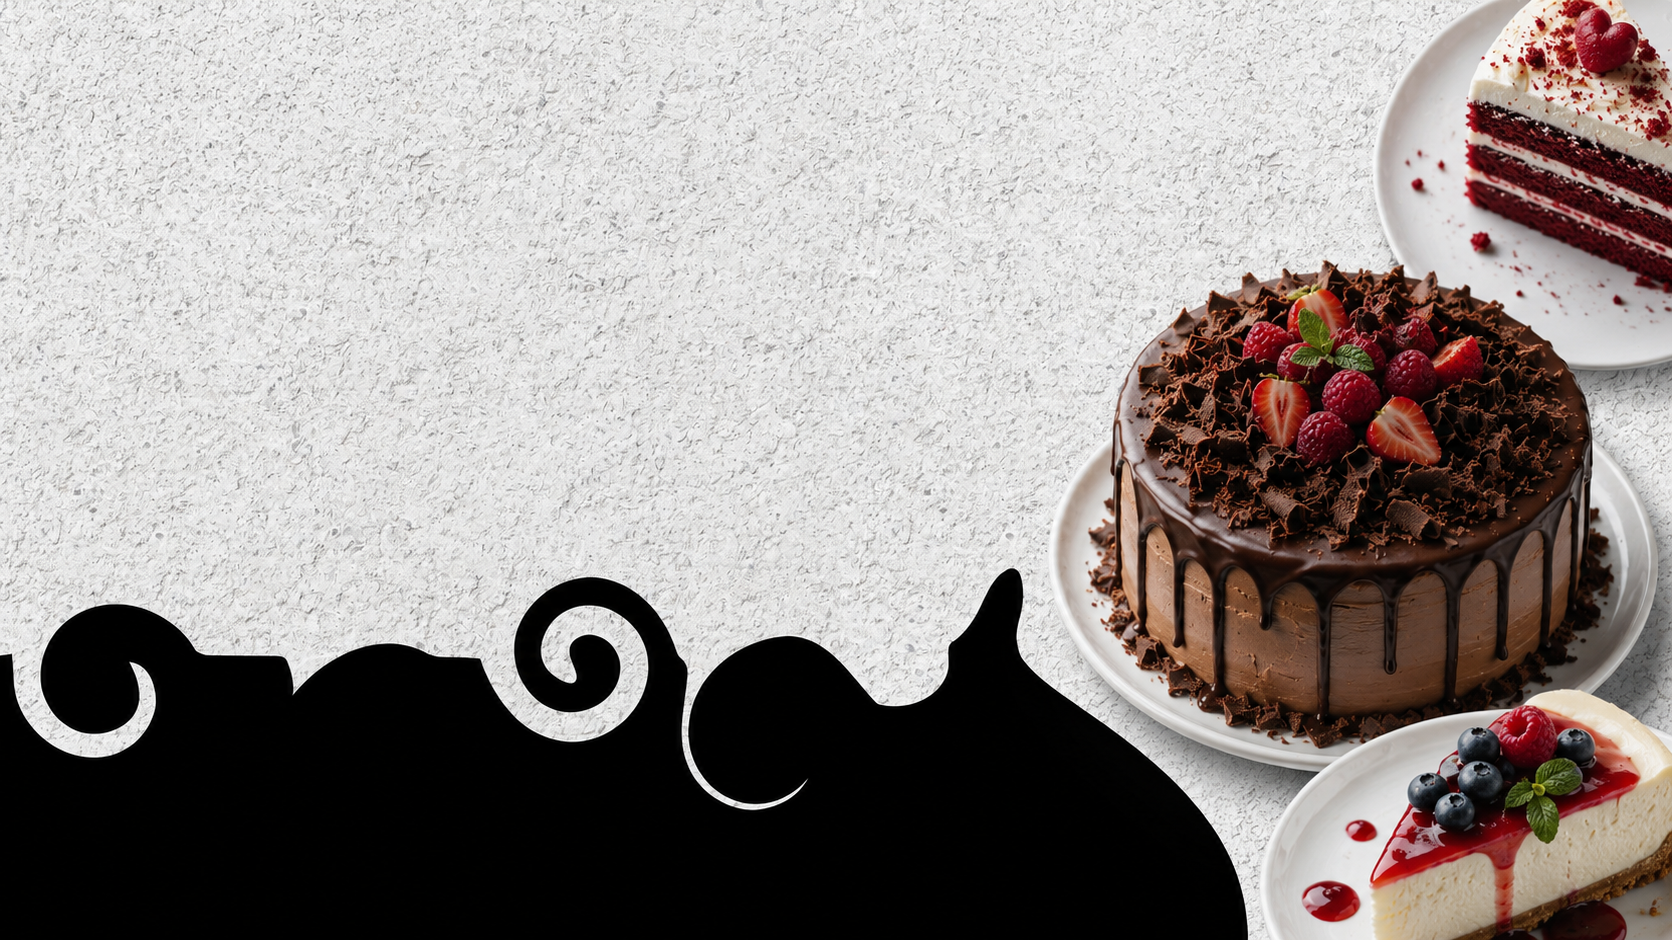
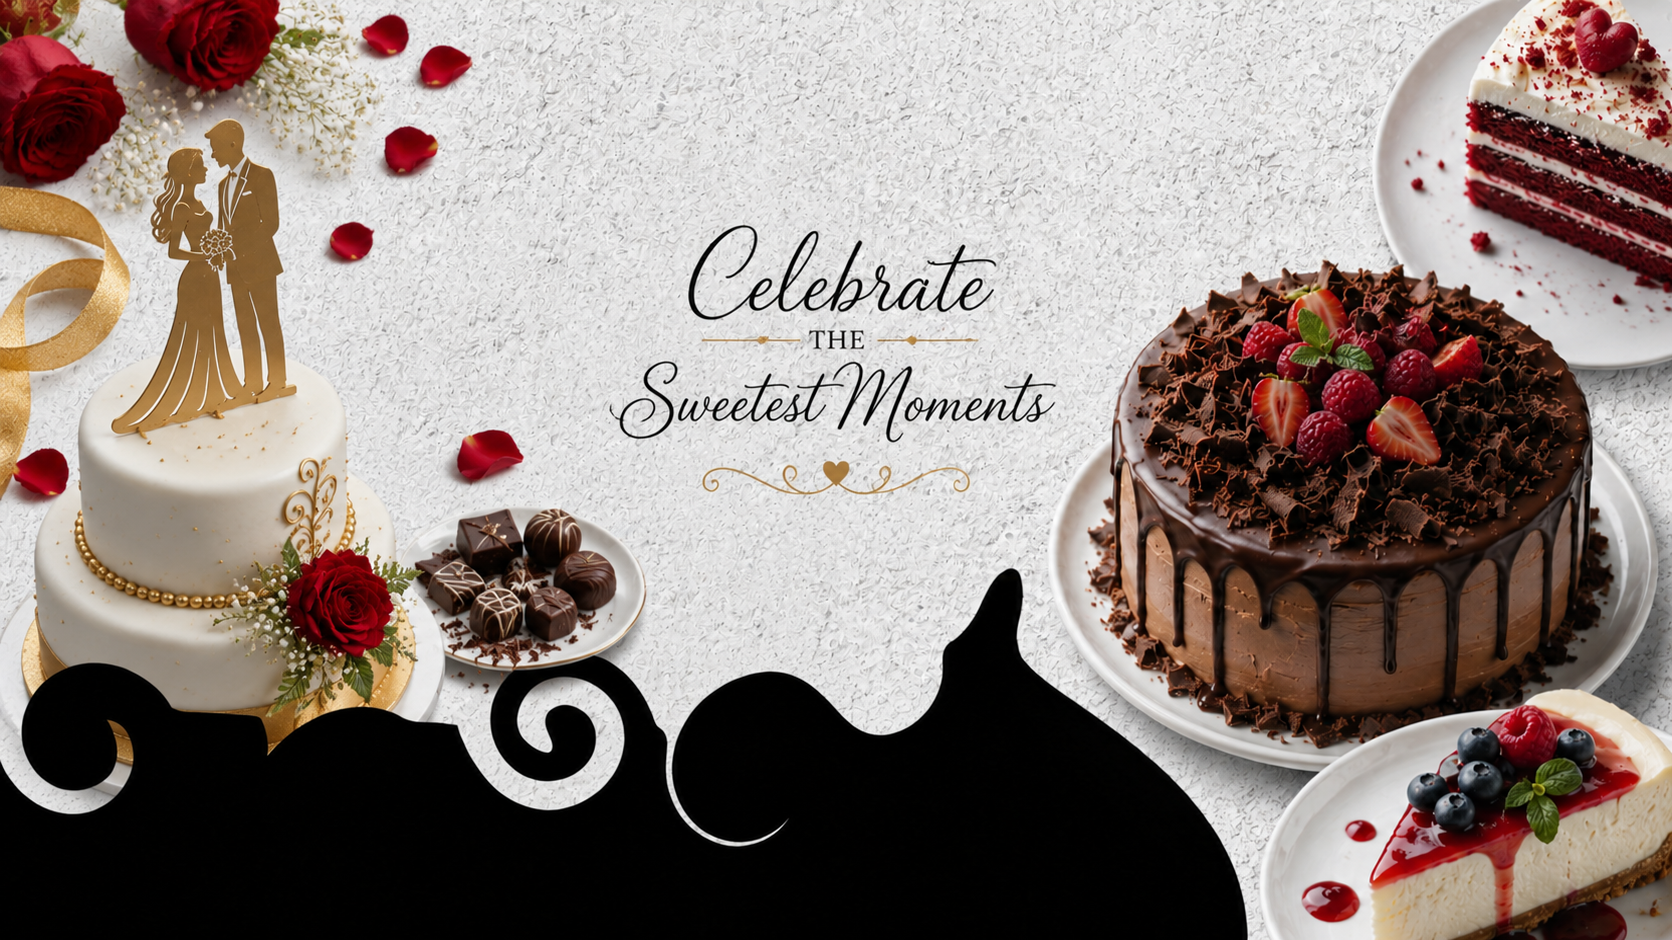
suppliyer changes

diff --git a/src/system/pages/Staff/Staff.jsx b/src/system/pages/Staff/Staff.jsx
@@ -12,7 +12,8 @@ import {
   Loader2,
   Lock,
   BadgeCheck,
-  Settings
+  Settings,
+  AlertTriangle
 } from "lucide-react";
 import { useNavigate } from "react-router-dom";
 
@@ -91,17 +92,27 @@ export default function AdminStaffManagement() {
     }
   };
 
-  const handleDelete = async (id) => {
-    if (!window.confirm("Remove this staff member from the system?")) return;
+  const [isDeleteModalOpen, setIsDeleteModalOpen] = useState(false);
+  const [deleteId, setDeleteId] = useState(null);
+
+  const handleDelete = (id) => {
+    setDeleteId(id);
+    setIsDeleteModalOpen(true);
+  };
+
+  const executeDelete = async () => {
     try {
       const token = localStorage.getItem("token");
-      await axios.delete(`${import.meta.env.VITE_BACKEND_URL}/api/auth/${id}`, {
+      await axios.delete(`${import.meta.env.VITE_BACKEND_URL}/api/auth/${deleteId}`, {
         headers: { Authorization: `Bearer ${token}` }
       });
       toast.success("Staff member removed");
       fetchStaff();
     } catch (error) {
       toast.error("Failed to remove staff");
+    } finally {
+      setIsDeleteModalOpen(false);
+      setDeleteId(null);
     }
   };
 
@@ -119,15 +130,6 @@ export default function AdminStaffManagement() {
           <p className="text-slate-400 font-medium mt-2 md:mt-3 text-sm md:text-base">Manage your shop staff and their login access.</p>
         </div>
 
-        <div className="flex items-center gap-3.5 bg-slate-50 p-1.5 rounded-xl border border-slate-100">
-          <div className="p-2.5 bg-white rounded-lg shadow-sm">
-            <Shield className="text-primary" size={20} md:size={22} />
-          </div>
-          <div className="pr-4">
-            <p className="text-[8px] font-black text-slate-400 uppercase tracking-widest leading-none">System Status</p>
-            <p className="text-xs font-bold text-slate-900 mt-1">All Staff Online</p>
-          </div>
-        </div>
       </header>
 
       <div className="grid grid-cols-1 xl:grid-cols-12 gap-8 md:gap-10 items-start">
@@ -197,14 +199,10 @@ export default function AdminStaffManagement() {
 
               <div className="space-y-2">
                 <label className="block text-[9px] font-black text-slate-400 uppercase tracking-widest ml-1">Access Role</label>
-                <select 
-                  value={formData.role}
-                  onChange={(e) => setFormData({...formData, role: e.target.value})}
-                  className="w-full px-5 py-3 bg-slate-50 border border-slate-100 rounded-xl outline-none focus:ring-4 focus:ring-primary/5 focus:border-primary transition-all font-bold text-slate-900 text-xs shadow-sm appearance-none"
-                >
-                  <option value="staff">Shop Staff</option>
-                  <option value="admin">Owner / Admin</option>
-                </select>
+                <div className="w-full px-5 py-3.5 bg-slate-50 border border-slate-100 rounded-xl font-bold text-slate-400 text-xs shadow-sm flex items-center gap-2">
+                  <BadgeCheck size={14} className="text-emerald-500" />
+                  Shop Staff (Standard Access)
+                </div>
               </div>
             </div>
 
@@ -257,12 +255,12 @@ export default function AdminStaffManagement() {
                     <tr key={user._id} className="hover:bg-white transition-all duration-300 group border-b border-slate-50/50">
                       <td className="px-8 md:px-10 py-5 md:py-6">
                         <div className="flex items-center gap-4">
-                          <div className={`w-12 h-12 rounded-[18px] flex items-center justify-center font-black text-lg shadow-inner ${user.role === 'admin' ? 'bg-primary text-white' : 'bg-slate-900 text-gold'}`}>
-                            {user.firstName[0]}
+                          <div className={`w-12 h-12 rounded-[18px] flex items-center justify-center font-black text-lg shadow-inner ${user.role === 'admin' ? 'bg-amber-500 text-white' : 'bg-slate-900 text-gold'}`}>
+                            {user.role === 'admin' ? <BadgeCheck size={24} /> : user.firstName[0]}
                           </div>
                           <div>
                             <p className="font-black text-slate-900 uppercase tracking-tight text-base leading-tight">{user.firstName} {user.lastName}</p>
-                            <p className="text-[9px] text-slate-400 font-bold uppercase tracking-widest flex items-center gap-1.5 mt-1 px-1.5 py-0.5 bg-slate-50 rounded-md w-fit">
+                            <p className="text-[11px] text-slate-400 font-bold flex items-center gap-1.5 mt-1 px-1.5 py-0.5 bg-slate-50 rounded-md w-fit lowercase">
                               <Mail size={10} className="text-primary"/> {user.email}
                             </p>
                           </div>
@@ -311,7 +309,42 @@ export default function AdminStaffManagement() {
             </table>
           </div>
         </div>
-      </div>
+    </div>
+
+      {/* Custom Deletion Modal */}
+      {isDeleteModalOpen && (
+        <div className="fixed inset-0 z-[110] flex items-center justify-center p-6">
+          <div className="absolute inset-0 bg-slate-900/40 backdrop-blur-md" onClick={() => setIsDeleteModalOpen(false)}></div>
+          
+          <div className="bg-white w-full max-w-md rounded-[32px] shadow-2xl relative z-10 overflow-hidden animate-in zoom-in duration-300 border border-slate-100">
+            <div className="p-8 text-center">
+              <div className="w-20 h-20 bg-rose-50 text-rose-500 rounded-3xl flex items-center justify-center mx-auto mb-6 shadow-inner">
+                <AlertTriangle size={40} />
+              </div>
+              
+              <h2 className="text-2xl font-black text-slate-900 uppercase tracking-tight mb-2">Are you sure?</h2>
+              <p className="text-sm font-medium text-slate-400 leading-relaxed mb-8">
+                Remove this staff member from the system? This action cannot be undone.
+              </p>
+
+              <div className="flex gap-3">
+                <button 
+                  onClick={() => setIsDeleteModalOpen(false)}
+                  className="flex-1 py-4 bg-slate-50 text-slate-400 rounded-2xl font-black text-[10px] uppercase tracking-widest hover:bg-slate-100 hover:text-slate-900 transition-all"
+                >
+                  No, Keep them
+                </button>
+                <button 
+                  onClick={executeDelete}
+                  className="flex-1 py-4 bg-rose-500 text-white rounded-2xl font-black text-[10px] uppercase tracking-widest shadow-xl shadow-rose-100 hover:bg-rose-600 transition-all"
+                >
+                  Yes, Remove
+                </button>
+              </div>
+            </div>
+          </div>
+        </div>
+      )}
     </div>
   );
 }

diff --git a/src/system/pages/Suppliers/AdminSupplierAccounts.jsx b/src/system/pages/Suppliers/AdminSupplierAccounts.jsx
@@ -21,6 +21,14 @@ import {
 export default function AdminSupplierAccounts() {
   const { id } = useParams();
   const navigate = useNavigate();
+  
+  const formatCurrency = (num) => {
+    return new Number(num).toLocaleString(undefined, {
+      minimumFractionDigits: 2,
+      maximumFractionDigits: 2
+    });
+  };
+
   const [supplier, setSupplier] = useState(null);
   const [supplyLogs, setSupplyLogs] = useState([]);
   const [loading, setLoading] = useState(true);
@@ -168,7 +176,7 @@ export default function AdminSupplierAccounts() {
                 {isCompleted && <CheckCircle2 size={14} className="text-emerald-500" />}
               </p>
               <p className="text-[10px] font-bold text-slate-400 mt-1 uppercase tracking-widest">
-                {log.quantity} units @ Rs. {log.unitPrice}
+                {log.quantity} units @ Rs. {formatCurrency(log.unitPrice)}
               </p>
             </div>
           </div>
@@ -178,11 +186,11 @@ export default function AdminSupplierAccounts() {
             <div className="space-y-1.5 pb-3 border-b border-dashed border-slate-100">
               <div className="flex justify-between w-48">
                 <span className="text-[10px] font-black text-slate-400 uppercase tracking-widest">Total:</span>
-                <span className="text-xs font-black text-slate-900">Rs. {log.cost.toLocaleString()}</span>
+                <span className="text-xs font-black text-slate-900">Rs. {formatCurrency(log.cost)}</span>
               </div>
               <div className="flex justify-between w-48">
                 <span className="text-xs font-bold text-emerald-400 uppercase">{isCompleted ? 'Total Paid:' : 'Total Paid:'}</span>
-                <span className="text-sm font-black text-emerald-600">Rs. {log.paidAmount.toLocaleString()}</span>
+                <span className="text-sm font-black text-emerald-600">Rs. {formatCurrency(log.paidAmount)}</span>
               </div>
               {log.paymentHistory?.length > 0 && (log.paymentHistory.length > 1 || log.balance > 0) && (
                 <div className="pt-3 mt-3 border-t border-slate-100 space-y-2">
@@ -197,7 +205,7 @@ export default function AdminSupplierAccounts() {
                           {new Date(pmt.date).toLocaleDateString(undefined, { day: '2-digit', month: 'short', year: 'numeric' })} • {new Date(pmt.date).toLocaleTimeString(undefined, { hour: '2-digit', minute: '2-digit' })}
                         </span>
                       </div>
-                      <span className="text-xs font-black text-emerald-600">Rs. {pmt.amount.toLocaleString()}</span>
+                      <span className="text-xs font-black text-emerald-600">Rs. {formatCurrency(pmt.amount)}</span>
                     </div>
                   ))}
                 </div>
@@ -214,7 +222,7 @@ export default function AdminSupplierAccounts() {
           ) : (
             <div className="inline-flex items-center gap-1.5 px-3 py-1.5 bg-amber-50 text-amber-600 rounded-full border border-amber-100">
               <Clock size={14} />
-              <span className="text-xs font-black uppercase tracking-widest">Pending: Rs. {log.balance.toLocaleString()}</span>
+              <span className="text-xs font-black uppercase tracking-widest">Pending: Rs. {formatCurrency(log.balance)}</span>
             </div>
           )}
         </td>
@@ -231,13 +239,6 @@ export default function AdminSupplierAccounts() {
                 Pay Balance
               </button>
             )}
-            <button 
-              onClick={() => handleEditOpen(log)}
-              className="p-3 rounded-xl bg-slate-50 text-slate-400 hover:text-primary hover:bg-primary/5 transition-all"
-              title="Edit Payment"
-            >
-              <Edit2 size={16} />
-            </button>
             <button 
               onClick={() => confirmDeleteLog(log._id)}
               className="p-3 rounded-xl bg-slate-50 text-slate-300 hover:text-rose-500 hover:bg-rose-50 transition-all"
@@ -271,9 +272,10 @@ export default function AdminSupplierAccounts() {
         <div>
           <button 
             onClick={() => navigate("/admin/suppliers")}
-            className="flex items-center gap-2 text-slate-400 hover:text-primary transition-colors font-black uppercase tracking-widest text-[9px] mb-4"
+            className="flex items-center gap-2.5 bg-slate-900 text-gold px-5 py-2.5 rounded-xl font-black uppercase tracking-widest text-[9px] hover:bg-primary hover:text-white transition-all duration-300 shadow-lg shadow-slate-100 mb-6 group"
           >
-            <ArrowLeft size={14} /> Back to Suppliers
+            <ArrowLeft size={14} className="group-hover:-translate-x-1 transition-transform" /> 
+            Back to Suppliers
           </button>
           <div className="flex items-center gap-4">
             <div className="w-16 h-16 rounded-[24px] bg-slate-900 text-gold flex items-center justify-center font-black text-2xl shadow-xl">
@@ -382,7 +384,7 @@ export default function AdminSupplierAccounts() {
                 />
                 {newSupply.cost > 0 && (
                   <p className="text-[9px] font-bold text-slate-400 mt-1 italic">
-                    Net Payable: Rs. {Math.max(0, parseFloat(newSupply.cost) - (supplier?.creditBalance || 0)).toLocaleString()}
+                    Net Payable: Rs. {formatCurrency(Math.max(0, parseFloat(newSupply.cost) - (supplier?.creditBalance || 0)))}
                   </p>
                 )}
               </div>
@@ -504,7 +506,7 @@ export default function AdminSupplierAccounts() {
                 {editingLog?.appliedCredit > 0 && (
                   <div className="flex justify-between text-[10px] font-bold text-indigo-500 uppercase tracking-widest">
                     <span>Credit Used:</span>
-                    <span>Rs. {editingLog?.appliedCredit.toLocaleString()}</span>
+                    <span>Rs. {formatCurrency(editingLog?.appliedCredit)}</span>
                   </div>
                 )}
               </div>
@@ -524,11 +526,11 @@ export default function AdminSupplierAccounts() {
                     <div className="mt-2 ml-1">
                       {parseFloat(editPaidAmount) > editingLog?.balance ? (
                         <p className="text-[10px] font-bold text-indigo-500 italic">
-                          Overpayment: Rs. {(parseFloat(editPaidAmount) - editingLog?.balance).toLocaleString()} will be added to credit.
+                          Overpayment: Rs. {formatCurrency(parseFloat(editPaidAmount) - editingLog?.balance)} will be added to credit.
                         </p>
                       ) : (
                         <p className="text-[10px] font-bold text-slate-500 italic">
-                          Remaining after payment: Rs. {(Math.max(0, editingLog?.balance - parseFloat(editPaidAmount))).toLocaleString()}
+                          Remaining after payment: Rs. {formatCurrency(Math.max(0, editingLog?.balance - parseFloat(editPaidAmount)))}
                         </p>
                       )}
                     </div>

diff --git a/src/system/pages/Suppliers/AdminSupplierManagement.jsx b/src/system/pages/Suppliers/AdminSupplierManagement.jsx
@@ -207,11 +207,11 @@ export default function AdminSupplierManagement() {
                 />
               </div>
               <div className="space-y-1.5 md:space-y-2">
-                <label className="block text-[8px] md:text-[9px] font-black text-slate-400 uppercase tracking-widest ml-1">Contact Number 1 (Optional)</label>
+                <label className="block text-[8px] md:text-[9px] font-black text-slate-400 uppercase tracking-widest ml-1">Contact Number 1 (Required)</label>
                 <input 
-                  name="phone1" value={formData.phone1} onChange={handleChange}
+                  name="phone1" value={formData.phone1} onChange={handleChange} required
                   className="w-full px-5 md:px-6 py-3.5 md:py-4 bg-slate-50 border border-slate-100 rounded-xl outline-none focus:ring-4 focus:ring-primary/5 focus:border-primary transition-all font-bold text-slate-900 text-xs md:text-sm placeholder:text-slate-300"
-                  placeholder="Primary Phone"
+                  placeholder="Primary Phone (Required)"
                 />
               </div>
               <div className="space-y-1.5 md:space-y-2">
@@ -347,7 +347,7 @@ export default function AdminSupplierManagement() {
                         ? 'bg-emerald-50 text-emerald-600 border-emerald-100' 
                         : 'bg-rose-50 text-rose-600 border-rose-100'
                       }`}>
-                        {s.status === 'Active' ? <ShieldCheck size={12} /> : <ShieldAlert size={12} />}
+                        {s.status === 'Active' ? <ShieldCheck size={12} /> : <AlertTriangle size={12} />}
                         <span className="text-[10px] font-black uppercase tracking-widest">{s.status}</span>
                       </div>
                     </td>
@@ -359,12 +359,6 @@ export default function AdminSupplierManagement() {
                           title="View Accounts & Payments"
                         >
                           <Truck size={18} className="group-hover:scale-110 transition-transform" />
-                        </button>
-                        <button 
-                          onClick={() => handleEdit(s)}
-                          className="p-3 rounded-xl bg-white border border-slate-100 text-slate-400 hover:text-primary hover:shadow-xl transition-all"
-                        >
-                          <Edit3 size={18} />
                         </button>
                         <button 
                           onClick={() => handleDelete(s._id)}

diff --git a/src/web/components/Navbar.jsx b/src/web/components/Navbar.jsx
@@ -122,13 +122,15 @@ export default function Navbar() {
                   className="flex items-center gap-2 bg-slate-900 text-gold px-3 py-1.5 lg:px-4 lg:py-2 rounded-lg lg:rounded-xl text-[8px] lg:text-[10px] font-black uppercase tracking-[0.2em] hover:bg-primary hover:text-white transition-all duration-500 shadow-xl shadow-slate-100"
                 >
                   <LayoutDashboard size={12} lg:size={16} />
-                  Registry
+                  System
                 </Link>
               )}
 
               <div className="flex items-center gap-2 px-2 py-1 lg:px-3 lg:py-1.5 bg-slate-50 rounded-lg lg:rounded-xl border border-slate-100 group">
                 <User size={12} lg:size={16} className="text-primary" />
-                <span className="text-[8px] lg:text-[10px] font-black uppercase text-slate-900 tracking-widest">{user.firstName}</span>
+                <span className="text-[8px] lg:text-[10px] font-black uppercase text-slate-900 tracking-widest">
+                  {(user.role === "admin" || user.role === "staff") ? "Admin" : user.firstName}
+                </span>
               </div>
 
               <button

diff --git a/src/web/pages/Home.jsx b/src/web/pages/Home.jsx
@@ -21,7 +21,7 @@ export default function Home() {
 
       {/* FEATURED PRODUCTS */}
       <ProductScroller
-        title="Chef's Special Selection"
+        title="Popular Cakes"
         category="cakes"
         bgColor="#ff149305"
       />
@@ -31,13 +31,13 @@ export default function Home() {
 
       {/* POPULAR ITEMS */}
       <ProductScroller
-        title="Popular Pastries"
+        title="Popular Sweets"
         category="sweet"
         bgColor="white"
       />
 
       <ProductScroller
-        title="Our Cupcake Box"
+        title="Beverages"
         category="beverages"
         bgColor="#ff149305"
       />

diff --git a/src/web/components/HeroCarousel.jsx b/src/web/components/HeroCarousel.jsx
@@ -17,7 +17,7 @@ const slides = [
     lightText: true,
   },
   {
-    image: "https://images.pexels.com/photos/291528/pexels-photo-291528.jpeg",
+    image: "/images/img3.png",
     titlePart1: "Signature",
     titlePart2: "Sweet Treats",
     description: "Freshly baked daily using only the finest premium ingredients.",